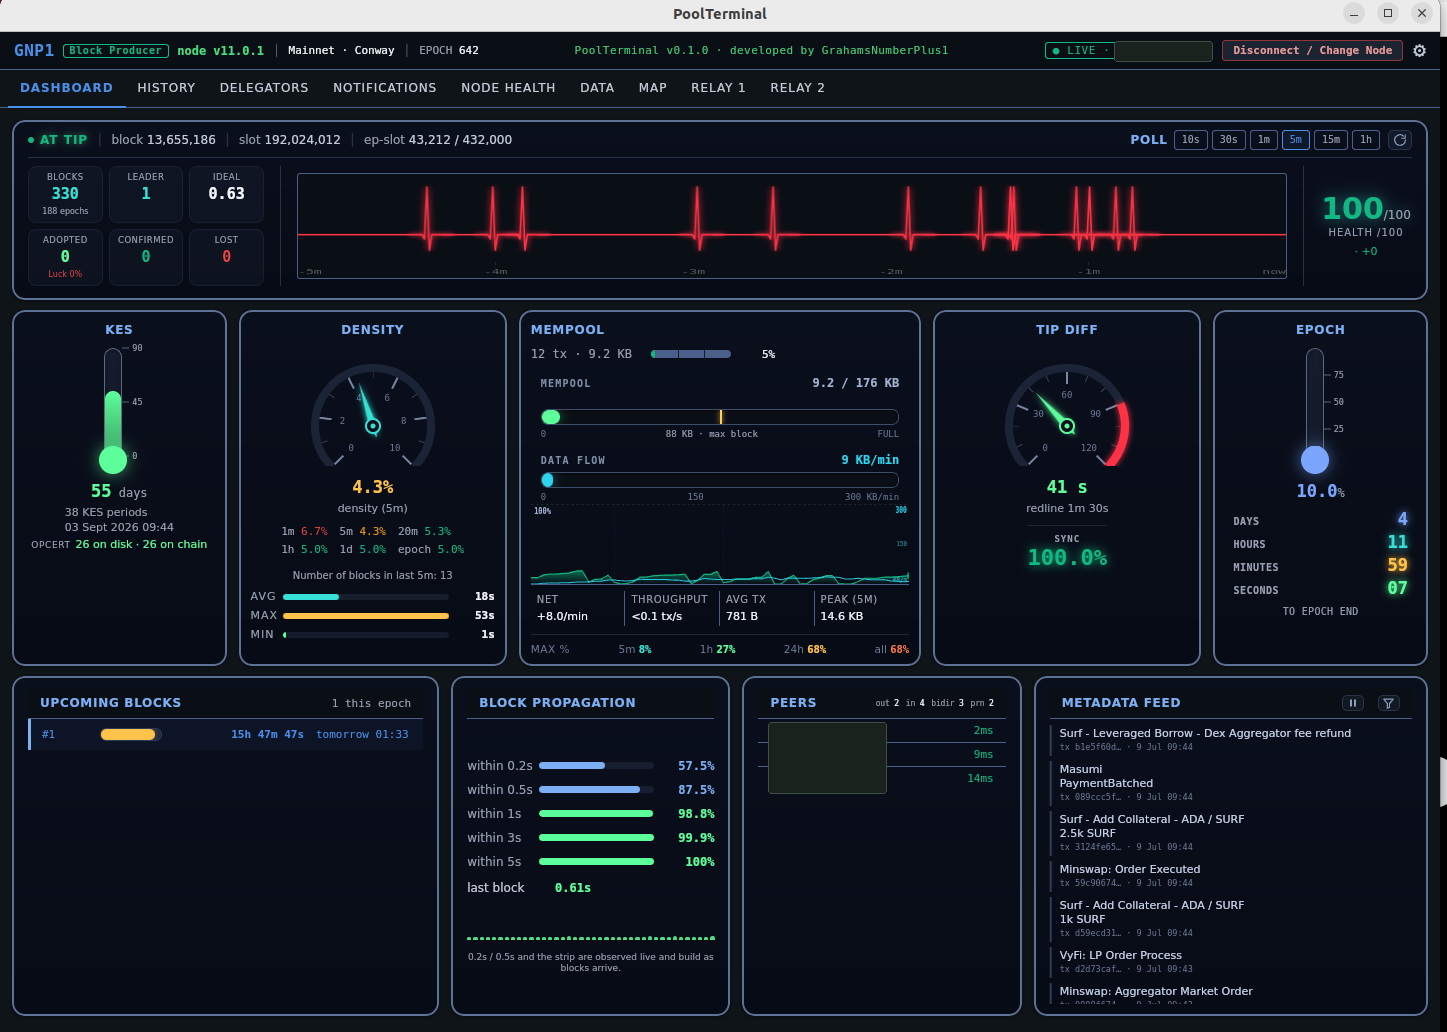
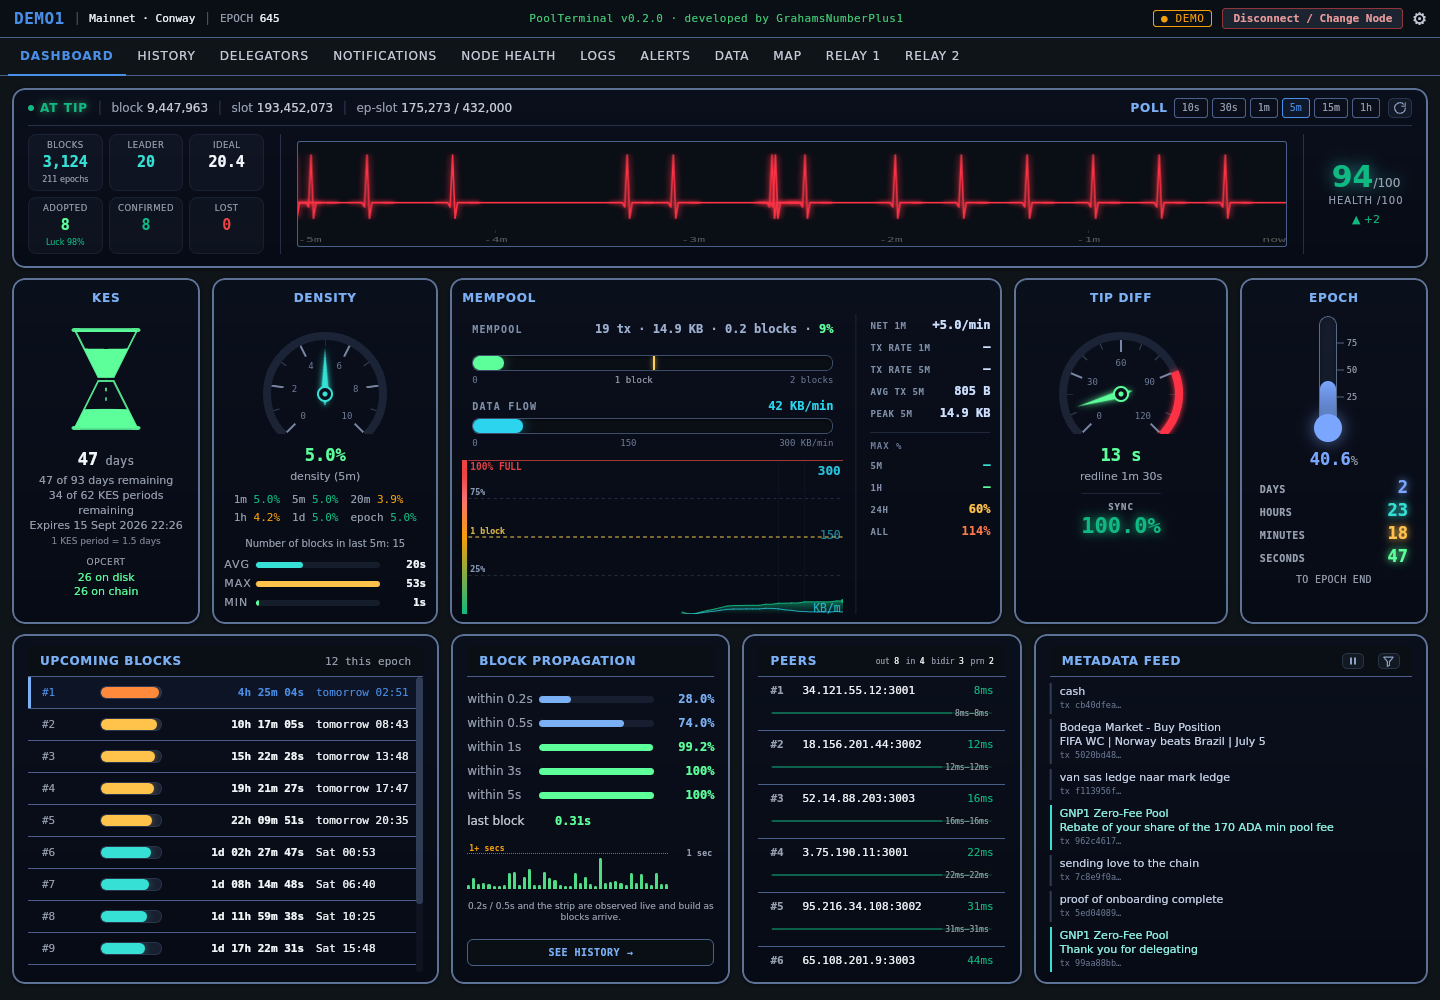
Replace the stale v0.1.0 screenshot with a current Demo-mode capture
The README hero image still showed v0.1.0 and a tab bar with no Logs and no
Alerts - it was advertising a version of the app that is two releases old, on
the first thing anyone sees on the repo.

Recaptured from v0.2.0 in Demo mode, so the image is entirely synthetic: no
node address, no real peer IPs, nothing to redact. The caption now says so and
points out that a reader can reproduce the same screen themselves without
connecting anything, which is a better invitation than a redacted screenshot of
someone else's pool.

Also picks up the demo hero fix - the op-cert counter and lifetime block count
now render instead of sitting on placeholders.

Changed region(s): [[0.0, 0.0, 1.0, 1.0]]

diff --git a/README.md b/README.md
@@ -24,7 +24,7 @@ Dense. Real-time. Read-only. Packed with data nothing else surfaces.
 
 ![PoolTerminal dashboard](docs/screenshot.png)
 
-_The DASHBOARD view: chain pulse, KES, mempool flow, block propagation, upcoming leader slots and a live chain metadata feed. (Node address and peer IPs redacted.)_
+_The DASHBOARD view: chain pulse, the KES hourglass, op-cert counter, mempool flow, block propagation, upcoming leader slots and a live chain metadata feed. Captured in **Demo mode**, so every figure here is synthetic - you can see this exact screen yourself without connecting to a node._
 
 ## What it is
 
